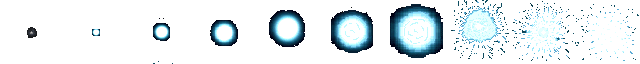
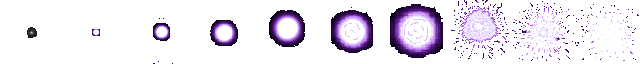
Cambio efectos visuales y diseños de armas
Ahora, los efectos de las armas mágicas varían entre sí.

También hago que los ataques se vean más centrados en el objetivo.

diff --git a/server/game/player/player.cpp b/server/game/player/player.cpp
@@ -191,9 +191,7 @@ InteractResult Player::heal_intearction(Player& healer) {
         return InteractResult(RecoverStatus::COMPLETE);
 
     healer.attack();
-
     const EquipableItemData& equipable_data = GameConfig::get().get_equipable(healer.equipment.weapon);
-    const WeaponData& weapon_data = GameConfig::get().get_weapon(healer.equipment.weapon);
 
     uint16_t amount = Calculator::random_number(equipable_data.min, equipable_data.max);
 
